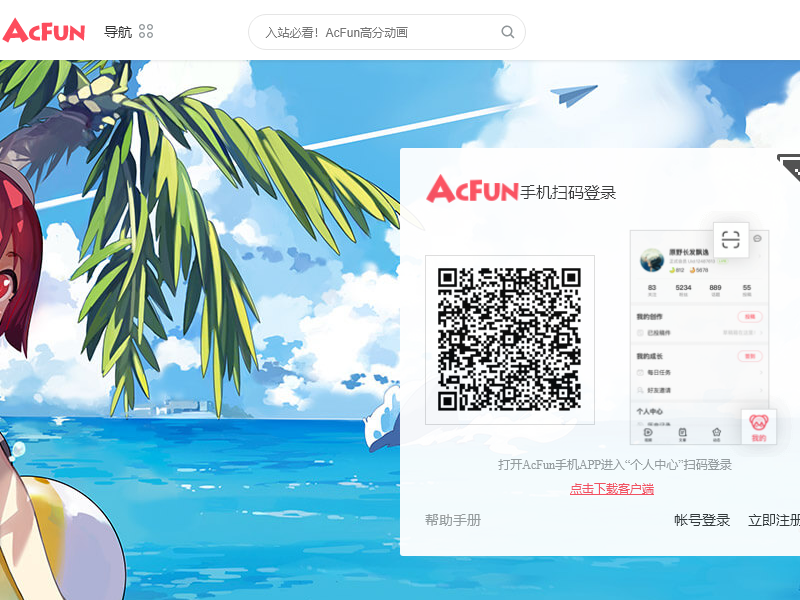
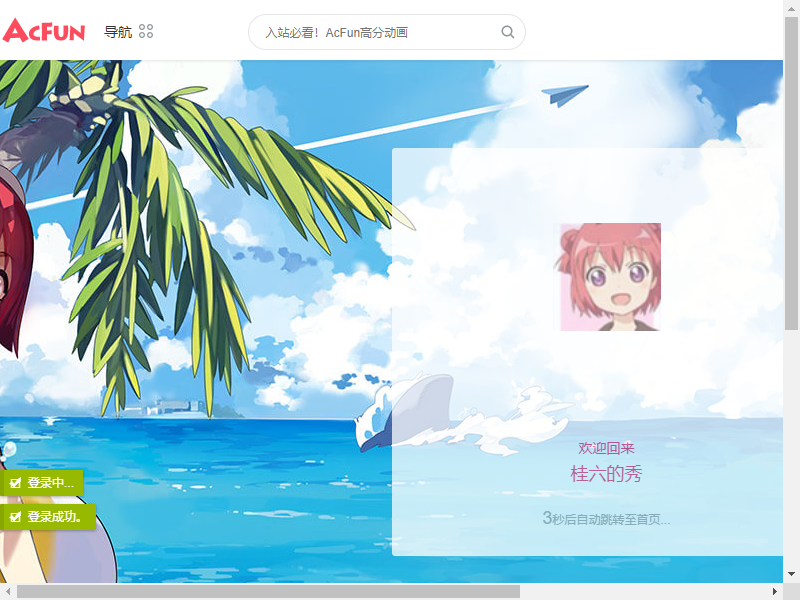
可以登录了

diff --git a/nest-example/src/client/index.ts b/nest-example/src/client/index.ts
@@ -1,77 +1,146 @@
 const puppeteer = require('puppeteer');
- 
+
 const initialPage = 'https://statsregnskapet.dfo.no/departementer';
 const selectors = [
-  'div[id$="-bVMpYP"] article a','div[id$="-KcazEUq"] article .dfo-widget-sm a'
+  'div[id$="-bVMpYP"] article a',
+  'div[id$="-KcazEUq"] article .dfo-widget-sm a',
 ];
 export const login = async function() {
-  debugger
-  // console.log(puppeteer);
-  // console.log('打开网站');
-  // const browser = await puppeteer.launch();
-  // const page = await browser.newPage();
-  // await page.goto('https://www.acfun.cn/login/');
-  // await page.waitFor(100);
-  // const account = await page.$('#ipt-account-login');
-  // account.value = '17621218285';
-  // await page.waitFor(100);
-  // const pwd = await page.$('#ipt-pwd-login');
-  // pwd.value = 'gxx562606139';
-  // await page.waitFor(100);
-  // await page.evaluate(()=> {
-  //   const btn = document.querySelector('.btn-login');
-  //   console.log(btn);
-  // });
-  // await page.waitFor(100);
-  // await page.screenshot({ path: 'example.png' });
-  // await browser.close();
-  // console.log('关闭网站');
-
-  let selector;
-  let handles;
-  let handle;
-
-  const width = 1024;
-  const height = 1600;
-
-  const browser = await puppeteer.launch(
-  {
-      'defaultViewport' : { 'width' : width,'height' : height }
+  console.log('打开网站');
+  const browser = await puppeteer.launch({
+    ignoreHTTPSErrors: true,
+    headless: false,
+    slowMo:250,
+    timeout:0
   });
-
   const page = await browser.newPage();
-
-  page.setDefaultNavigationTimeout( 90000 );
-
-  await page.setViewport( { 'width' : width,'height' : height } );
-
-  await page.setUserAgent( 'UA-TEST' );
-
-  // Load first page
-
-  const stat = await page.goto( initialPage,{ 'waitUntil' : 'domcontentloaded' } );
-
-  // Click on selector 1 - works ok
-
-  selector = selectors[0];
-  await page.waitForSelector( selector );
-  handles = await page.$$( selector );
-  handle = handles[12];
-  console.log( 'Clicking on: ',await page.evaluate( el => el.href,handle ) );
-  await handle.click();  // OK
-
-  await page.waitForNavigation();
-
-  // Click that selector 2 - fails
-
-  selector = selectors[1];
-  await page.waitForSelector( selector );
-  handles = await page.$$( selector );
-  handle = handles[12];
-  console.log( 'Clicking on: ',handle );
-  await handle.click();
-
-  await page.waitForNavigation();
-
+  await page.setJavaScriptEnabled(true);
+  await page.goto('https://www.acfun.cn/login/');
+  const accountswitch = await page.$('#login-account-switch');
+  await accountswitch.click();
+  const account = await page.$('#ipt-account-login');
+  await account.focus();
+  await page.keyboard.type('17621218285');
+  const pwd = await page.$('#ipt-pwd-login');
+  await pwd.focus();
+  await page.keyboard.type('Gxx562606139');
+  const btn = await page.$('.btn-login');
+  await btn.click();
+  await page.waitFor(1000);
+  await page.screenshot({ path: 'example.png' });
   await browser.close();
+  console.log('关闭网站');
+
+  //延时函数
+  // function sleep(delay) {
+  // 	return new Promise((resolve, reject) => {
+  // 		setTimeout(() => {
+  // 			try {
+  // 				resolve(1)
+  // 			} catch (e) {
+  // 				reject(0)
+  // 			}
+  // 		}, delay)
+  // 	})
+  // }
+
+  // puppeteer.launch({
+  // 	ignoreHTTPSErrors:true,
+  // 	headless:false,slowMo:250,
+  // 	timeout:0}).then(async browser => {
+
+  // 	let page = await browser.newPage();
+  // 	await page.setJavaScriptEnabled(true);
+  // 	await page.goto("https://www.jd.com/");
+  // 	const searchInput = await page.$("#key");
+  // 	await searchInput.focus(); //定位到搜索框
+  // 	await page.keyboard.type("手机");
+  // 	const searchBtn = await page.$(".button");
+  // 	await searchBtn.click();
+  // 	await page.waitForSelector('.gl-item'); //等待元素加载之后，否则获取不异步加载的元素
+  // 	const links = await page.$$eval('.gl-item > .gl-i-wrap > .p-img > a', links => {
+  // 		return links.map(a => {
+  // 			return {
+  // 				href: a.href.trim(),
+  // 				title: a.title
+  // 			}
+  // 		});
+  // 	});
+  // 	page.close();
+
+  // 	const aTags = links.splice(0, 10);
+  // 	for (let i = 1; i < aTags.length; i++) {
+  // 		page = await browser.newPage()
+  // 		page.setJavaScriptEnabled(true);
+  // 		await page.setViewport({width:1920, height:1080});
+  // 		const a = aTags[i];
+  // 		await page.goto(a.href, {timeout:0}); //防止页面太长，加载超时
+
+  // 		//注入代码，慢慢把滚动条滑到最底部，保证所有的元素被全部加载
+  // 		let scrollEnable = true;
+  // 		const scrollStep = 500; //每次滚动的步长
+  // 		while (scrollEnable) {
+  // 			scrollEnable = await page.evaluate((scrollStep) => {
+  // 				const scrollTop = document.scrollingElement.scrollTop;
+  // 				document.scrollingElement.scrollTop = scrollTop + scrollStep;
+  // 				return document.body.clientHeight > scrollTop + 1080 ? true : false
+  // 			}, scrollStep);
+  // 			await sleep(100);
+  // 		}
+  // 		await page.waitForSelector("#footer-2014", {timeout:0}); //判断是否到达底部了
+  // 		const filename = "images/items-"+i+".png";
+  // 		//这里有个Puppeteer的bug一直没有解决，发现截图的高度最大只能是16384px， 超出部分被截掉了。
+  // 		await page.screenshot({path:filename, fullPage:true});
+  // 		page.close();
+  // 	}
+
+  // 	browser.close();
+  // });
+  // let selector;
+  // let handles;
+  // let handle;
+
+  // const width = 1024;
+  // const height = 1600;
+
+  // const browser = await puppeteer.launch(
+  // {
+  //     'defaultViewport' : { 'width' : width,'height' : height }
+  // });
+
+  // const page = await browser.newPage();
+
+  // page.setDefaultNavigationTimeout( 90000 );
+
+  // await page.setViewport( { 'width' : width,'height' : height } );
+
+  // await page.setUserAgent( 'UA-TEST' );
+
+  // // Load first page
+
+  // const stat = await page.goto( initialPage,{ 'waitUntil' : 'domcontentloaded' } );
+
+  // // Click on selector 1 - works ok
+
+  // selector = selectors[0];
+  // await page.waitForSelector( selector );
+  // handles = await page.$$( selector );
+  // handle = handles[12];
+  // console.log( 'Clicking on: ',await page.evaluate( el => el.href,handle ) );
+  // await handle.click();  // OK
+
+  // await page.waitForNavigation();
+
+  // // Click that selector 2 - fails
+
+  // selector = selectors[1];
+  // await page.waitForSelector( selector );
+  // handles = await page.$$( selector );
+  // handle = handles[12];
+  // console.log( 'Clicking on: ',handle );
+  // await handle.click();
+
+  // await page.waitForNavigation();
+
+  // await browser.close();
 };
